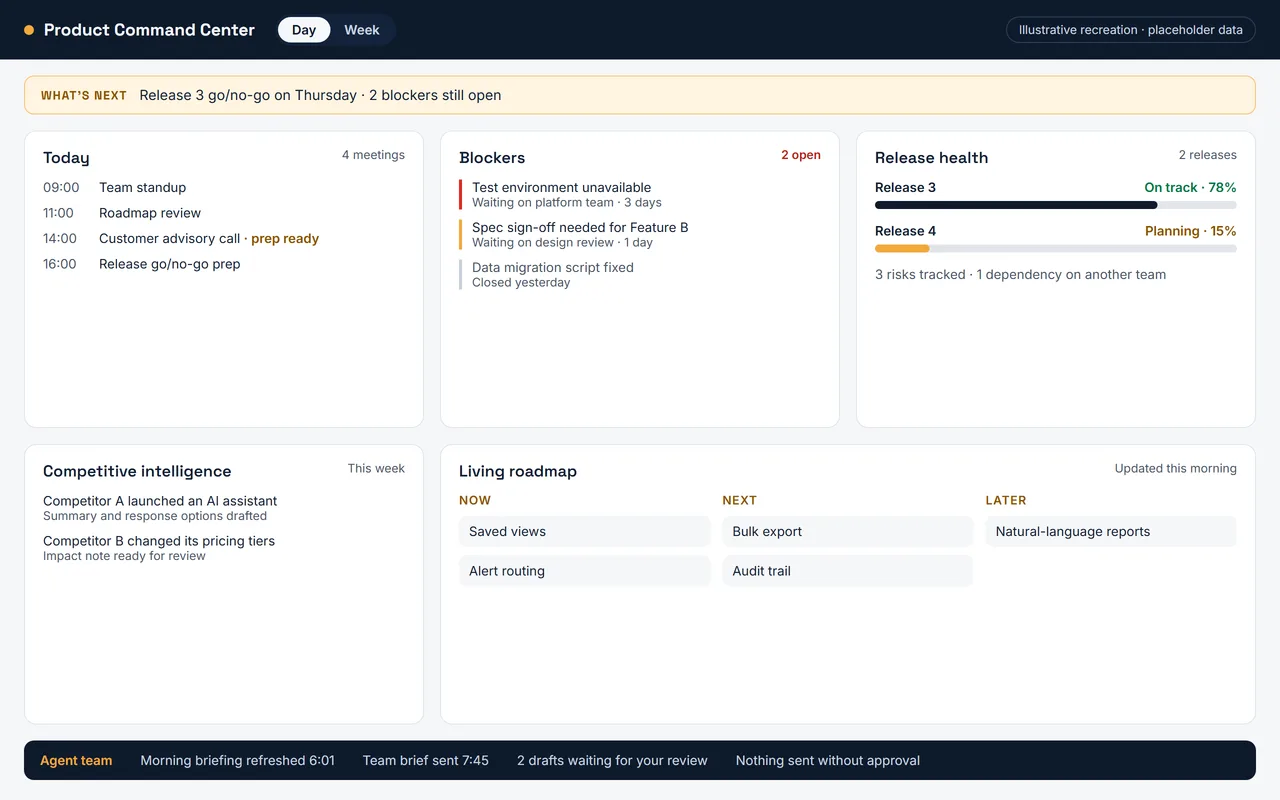
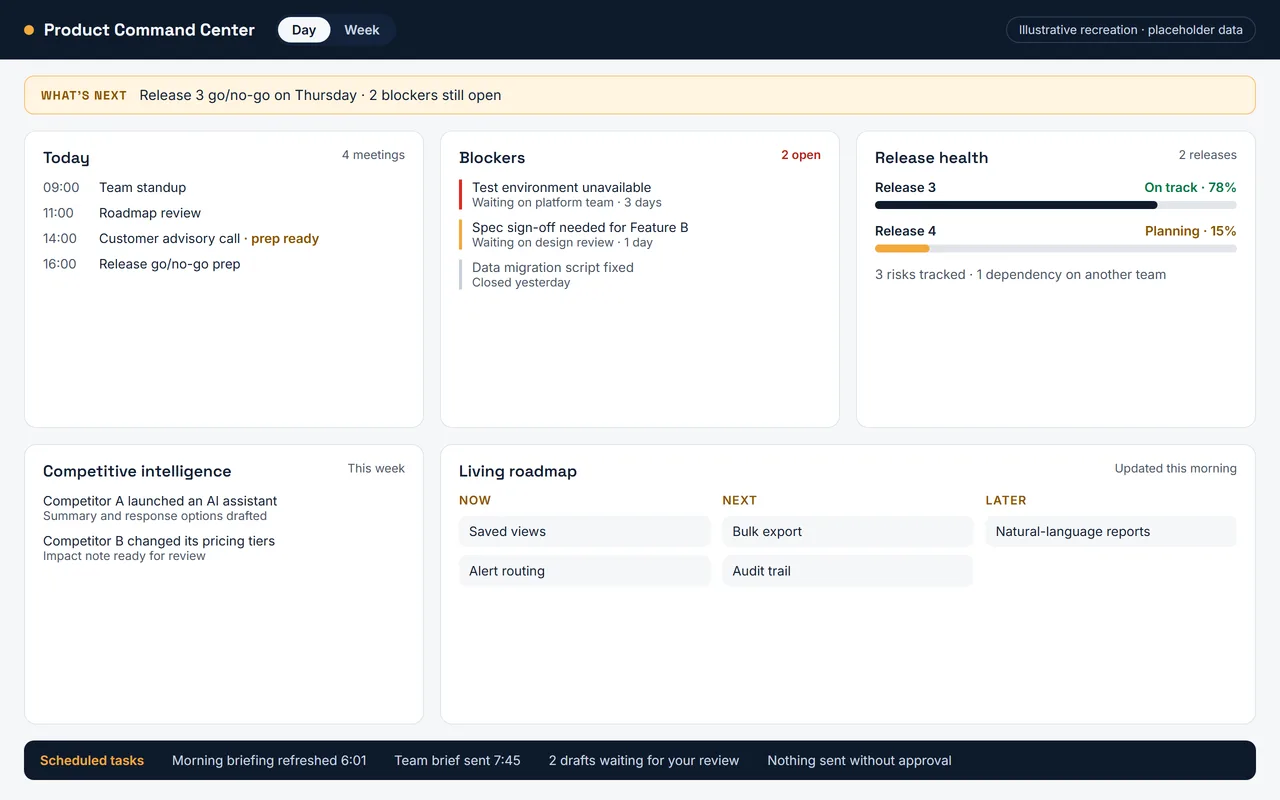
Tell case 1 as the Command Center to agent team story
The Command Center was version 1, retired after pressure-testing it
against the full workload; the 8-agent team replaced it. Case copy,
tab label, image caption, prototype strip and footer now say so
instead of implying both run together.

Changed region(s): [[0.0312, 0.9375, 0.75, 0.9688]]

diff --git a/src/data/content.ts b/src/data/content.ts
@@ -58,20 +58,20 @@ export const work = {
       shots: [
         {
           name: 'command-center',
-          alt: 'Command Center prototype: panels for today, blockers, release health, competitive intelligence and a living roadmap, with a strip showing what the agent team did this morning.',
+          alt: 'Version 1, the Command Center prototype: panels for today, blockers, release health, competitive intelligence and a living roadmap, with a strip showing what scheduled tasks did this morning.',
         },
       ],
-      shotsCaption: "Generic recreation with placeholder data. The real one runs on company systems I can't show.",
+      shotsCaption: "Version 1, the Command Center I retired. Generic recreation with placeholder data; the real one ran on company systems I can't show.",
       highlight: { value: '12–15 hrs', label: 'saved per week' },
-      tabLabel: 'Command Center',
-      title: 'AI Product Command Center → an 8-agent team',
+      tabLabel: 'My AI workflow',
+      title: 'From a Command Center to an 8-agent team',
       tag: '2026 AI Impact Award',
       nutshell:
-        'I turned my own product workload into an orchestrated team of Claude agents, then rebuilt it in two months.',
+        "I built a dashboard to run my whole workload, saw it couldn't keep up, and replaced it with an orchestrated team of Claude agents.",
       challenge:
         'One product owner carrying backlogs, releases, competitive tracking and stakeholder updates for global teams in three regions.',
       action:
-        'A Command Center combining calendar, blockers, release health, competitive intelligence and a living roadmap, kept current by scheduled automation. Then a Chief of Staff agent orchestrating 7 specialists, each with a charter and hand-offs, token-efficient context and a UI for visibility.',
+        'Version 1 was a Command Center that pulled my artifacts, scheduled tasks and skills into one place: calendar, blockers, release health, competitive intelligence and a living roadmap. Pressure-tested against my full workload, it took too much upkeep, so I retired it. Version 2 is a Chief of Staff agent orchestrating 7 specialists, each with a charter and hand-offs, token-efficient context and a UI for visibility.',
       results:
         '<strong>2x throughput</strong> on specs and decisions.',
     },
@@ -200,5 +200,5 @@ export const contact = {
   body: "Want to talk agent teams, AI product, or how this site was built? I'm always up for comparing notes.",
   footer: 'This site was designed and built with Claude Code.',
   footerAside:
-    "Honestly, I'm not sure which Claude license I use more. My agent team and Command Center run on my work one; this site and my hall pass app were built on my personal one.",
+    "Honestly, I'm not sure which Claude license I use more. My agent team, and the Command Center before it, run on my work one; this site and my hall pass app were built on my personal one.",
 };

diff --git a/design/prototypes/command-center.html b/design/prototypes/command-center.html
@@ -90,7 +90,7 @@ a{color:#142033}a:hover{color:#8A5300}
 
   <!-- Agent activity strip -->
   <div style="margin: 16px 24px 20px; background: #0E1A2B; color: #C9D3E0; border-radius: 10px; padding: 12px 16px; display: flex; flex-wrap: wrap; gap: 8px 28px; font-size: 13px">
-    <span style="color: #F2A93B; font-weight: 600">Agent team</span>
+    <span style="color: #F2A93B; font-weight: 600">Scheduled tasks</span>
     <span>Morning briefing refreshed 6:01</span>
     <span>Team brief sent 7:45</span>
     <span>2 drafts waiting for your review</span>

diff --git a/README.md b/README.md
@@ -55,4 +55,4 @@ I wrote two documents: a build brief (stack, design tokens, accessibility and pe
 - **It checked its own work.** Claude Code ran the production build, viewed the page at desktop and phone widths in a browser, measured touch targets and horizontal overflow, and ran Lighthouse before calling it done.
 - **I kept the decisions.** I set direction, content and guardrails. Claude Code did the build. That's the same way I run my agent team.
 
-This site was built on my personal Claude license. My agent team and Command Center run on my work one. I'm honestly not sure which I use more.
+This site was built on my personal Claude license. My agent team, and the Command Center before it, run on my work one. I'm honestly not sure which I use more.
